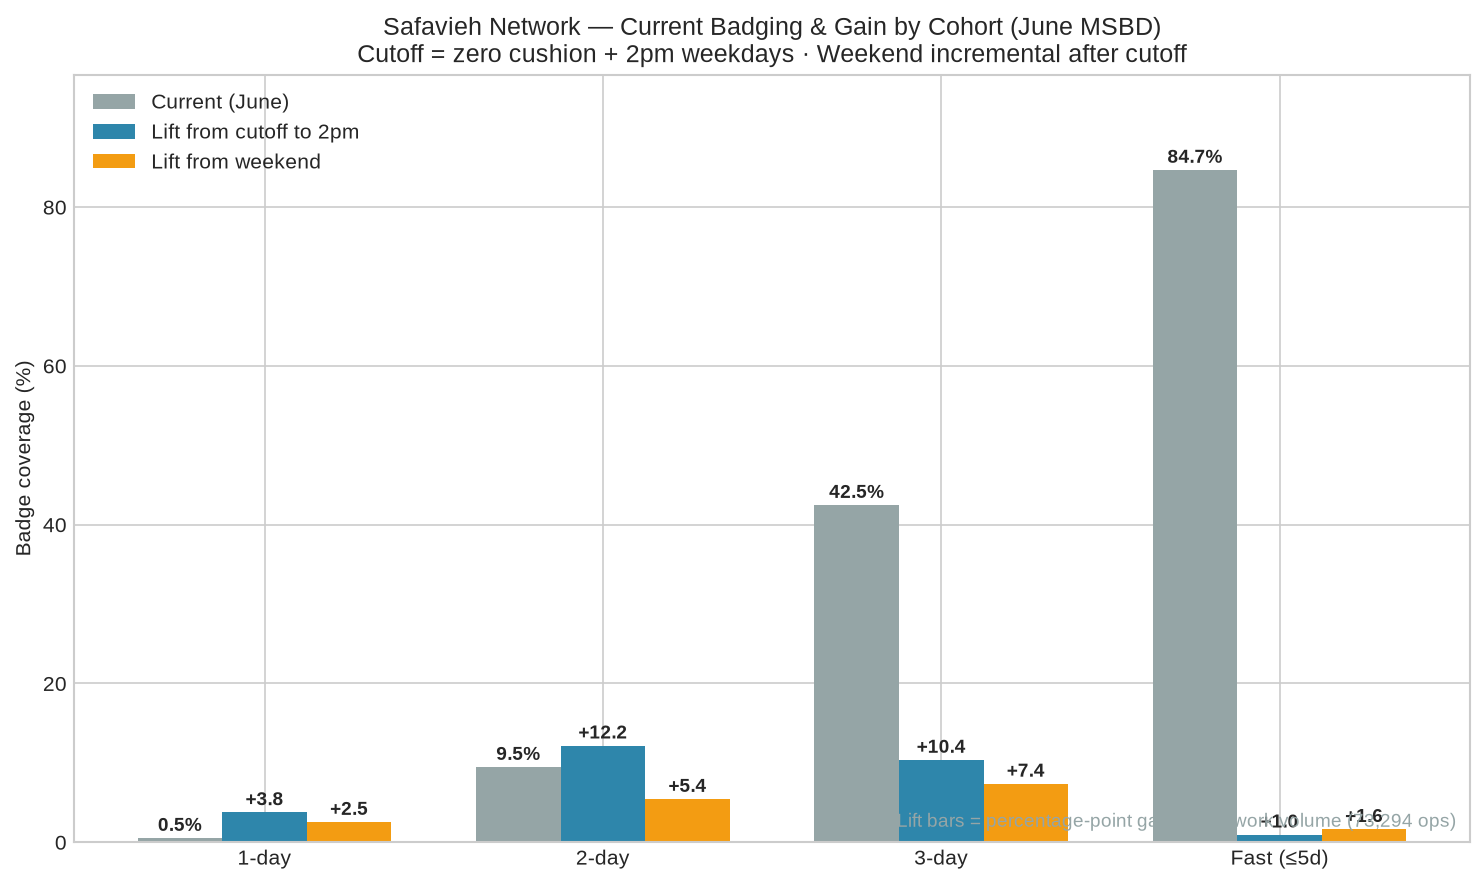
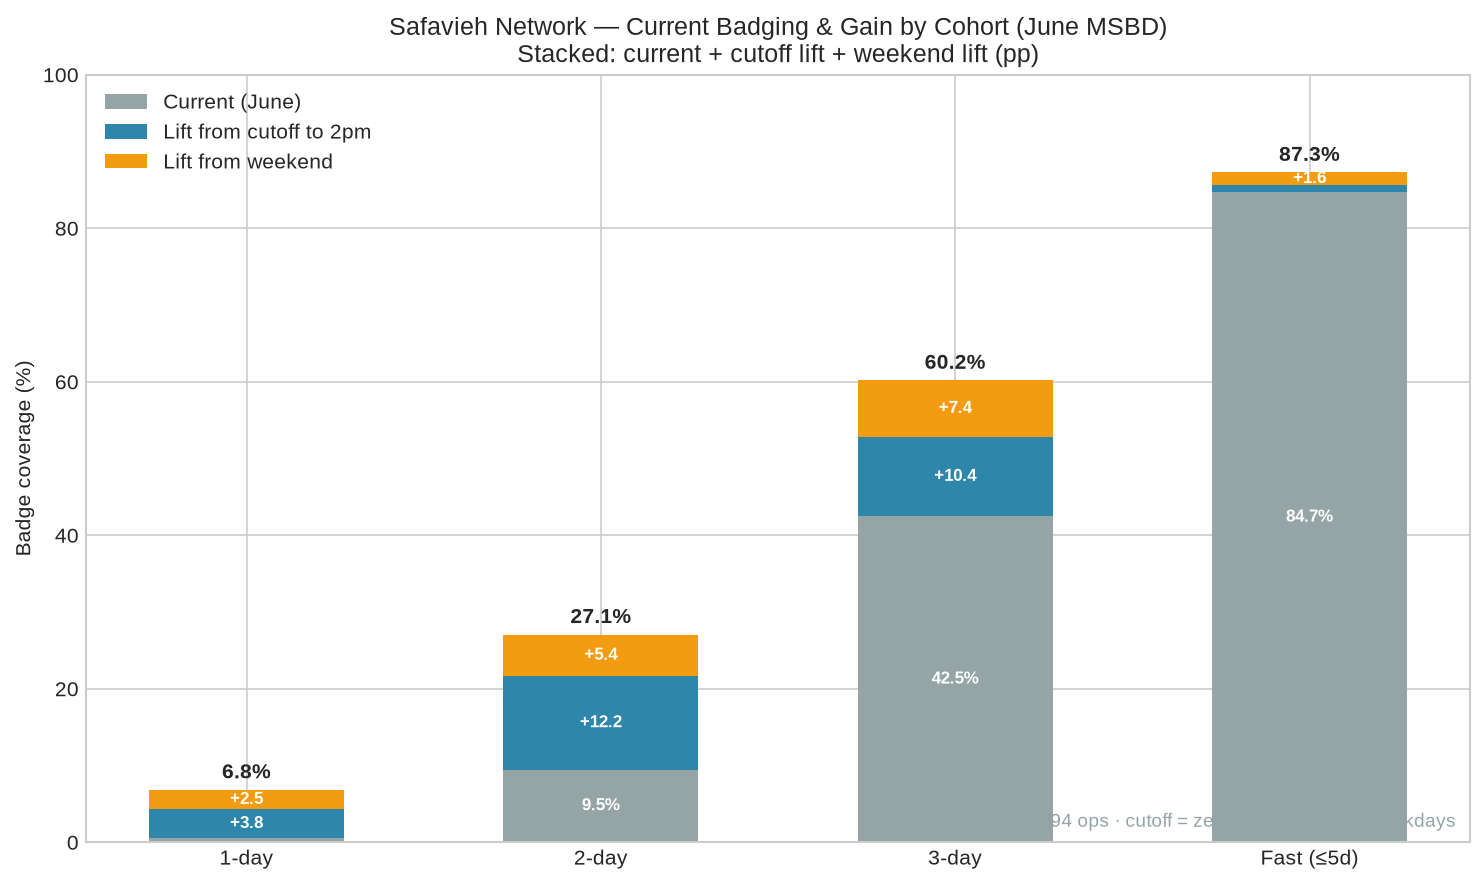
Clarify stacked single-bar cohort chart (current + cutoff + weekend)

diff --git a/scripts/analyze_safavieh_charts.py b/scripts/analyze_safavieh_charts.py
@@ -159,84 +159,60 @@ def chart_badging_tiers(scen: pd.DataFrame) -> None:
 
 
 def chart_network_cohort_current_and_lifts(scen: pd.DataFrame) -> None:
-    """Network totals: stacked current + cutoff lift + weekend lift per cohort."""
+    """One stacked bar per cohort: current (base) + cutoff lift + weekend lift."""
     if "policy_2pm_no_cushion" not in scen["scenario"].values:
         return
 
     tiers = ["1-day", "2-day", "3-day", "Fast (≤5d)"]
     cols = ["badge_1d_pct", "badge_2d_pct", "badge_3d_pct", "badge_5d_fast_pct"]
-    cur = scen.loc[scen["scenario"] == "current", cols].iloc[0].values
-    pol = scen.loc[scen["scenario"] == "policy_2pm_no_cushion", cols].iloc[0].values
-    full = scen.loc[scen["scenario"] == "policy_plus_weekend", cols].iloc[0].values
+    cur = scen.loc[scen["scenario"] == "current", cols].iloc[0].values.astype(float)
+    pol = scen.loc[scen["scenario"] == "policy_2pm_no_cushion", cols].iloc[0].values.astype(float)
+    full = scen.loc[scen["scenario"] == "policy_plus_weekend", cols].iloc[0].values.astype(float)
     cutoff_lift = pol - cur
     weekend_lift = full - pol
 
     x = np.arange(len(tiers))
-    width = 0.55
-    fig, ax = plt.subplots(figsize=(10, 6))
+    width = 0.5
+    edge = {"edgecolor": "white", "linewidth": 1.2}
 
-    b_cur = ax.bar(x, cur, width, label="Current (June)", color=GRAY)
-    b_cut = ax.bar(x, cutoff_lift, width, bottom=cur, label="Lift from cutoff to 2pm", color=ACCENT)
-    b_wk = ax.bar(
+    fig, ax = plt.subplots(figsize=(9, 6))
+    ax.bar(x, cur, width, label="Current (June)", color=GRAY, **edge)
+    ax.bar(x, cutoff_lift, width, bottom=cur, label="+ Cutoff to 2pm", color=ACCENT, **edge)
+    ax.bar(
         x,
         weekend_lift,
         width,
         bottom=cur + cutoff_lift,
-        label="Lift from weekend",
+        label="+ Weekend",
         color=ORANGE,
+        **edge,
     )
 
     ax.set_ylabel("Badge coverage (%)")
-    ax.set_title(
-        "Safavieh Network — Current Badging & Gain by Cohort (June MSBD)\n"
-        "Stacked: current + cutoff lift + weekend lift (pp)"
-    )
+    ax.set_title("Safavieh Network — Badge Coverage by Cohort (June MSBD)")
     ax.set_xticks(x)
     ax.set_xticklabels(tiers)
     ax.set_ylim(0, 100)
+    ax.set_xlim(-0.6, len(tiers) - 0.4)
 
     for i in range(len(tiers)):
         total = cur[i] + cutoff_lift[i] + weekend_lift[i]
-        ax.text(x[i], total + 1.5, f"{total:.1f}%", ha="center", fontsize=10, fontweight="bold")
-        if cutoff_lift[i] >= 1.5:
-            ax.text(
-                x[i],
-                cur[i] + cutoff_lift[i] / 2,
-                f"+{cutoff_lift[i]:.1f}",
-                ha="center",
-                va="center",
-                fontsize=8,
-                color="white",
-                fontweight="bold",
-            )
-        if weekend_lift[i] >= 1.5:
-            ax.text(
-                x[i],
-                cur[i] + cutoff_lift[i] + weekend_lift[i] / 2,
-                f"+{weekend_lift[i]:.1f}",
-                ha="center",
-                va="center",
-                fontsize=8,
-                color="white",
-                fontweight="bold",
-            )
-        if cur[i] >= 2:
-            ax.text(
-                x[i],
-                cur[i] / 2,
-                f"{cur[i]:.1f}%",
-                ha="center",
-                va="center",
-                fontsize=8,
-                color="white",
-                fontweight="bold",
-            )
+        ax.text(
+            x[i],
+            total + 2,
+            f"{total:.1f}%",
+            ha="center",
+            va="bottom",
+            fontsize=11,
+            fontweight="bold",
+            color=NAVY,
+        )
 
-    ax.legend(loc="upper left")
+    ax.legend(loc="upper left", framealpha=0.95)
     ax.text(
         0.99,
         0.02,
-        "June MSBD · 73,294 ops · cutoff = zero cushion + 2pm weekdays",
+        "Each bar = current + cutoff lift + weekend lift · 73,294 ops",
         transform=ax.transAxes,
         ha="right",
         fontsize=9,
